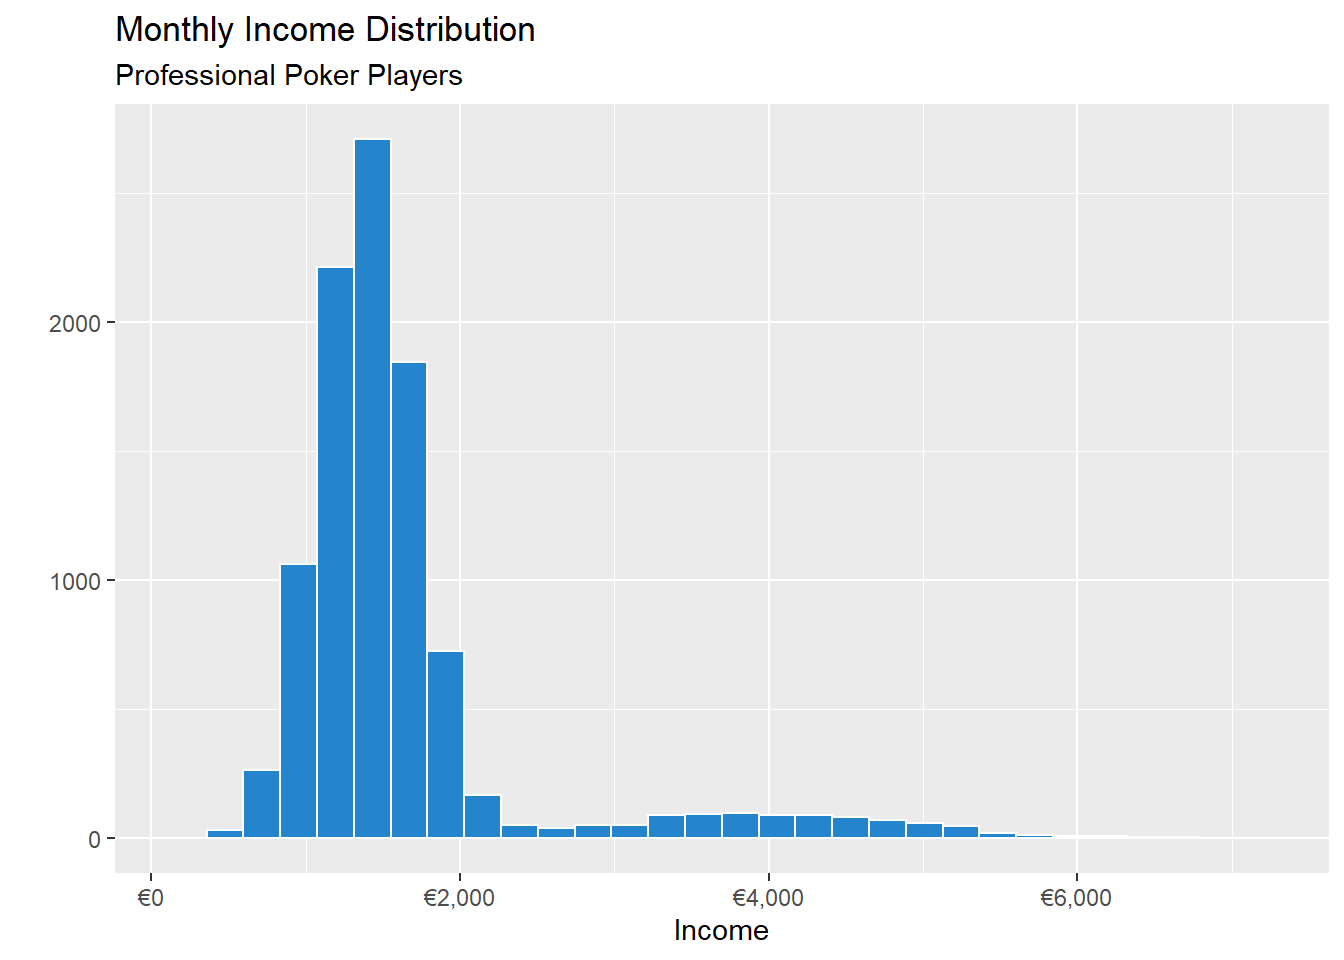
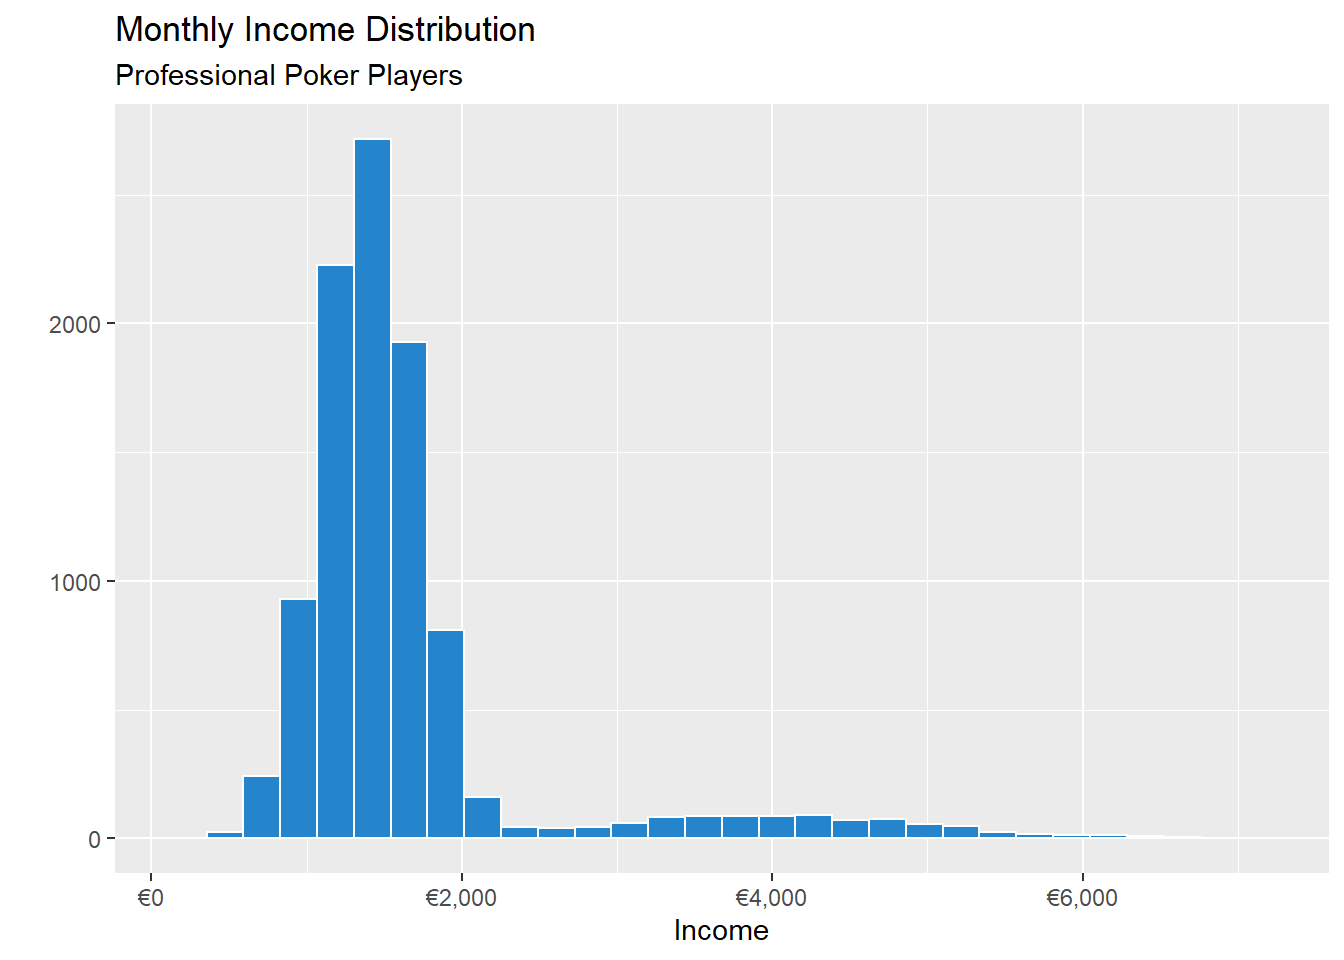
Decision making in uncertainty - Problem Description

diff --git a/content/post/2021-03-18-decision-making-with-uncertainty/index.en.html b/content/post/2021-03-18-decision-making-with-uncertainty/index.en.html
@@ -70,13 +70,15 @@ draft: true
 </div>
 <div id="the-problem" class="section level1">
 <h1>The problem</h1>
-<p>Let us imagine that you would like to choose a career. You are not really sure what you would like to choose because you don’t have a particular career for which you have a strong calling, however there are some that seem decent to you:</p>
-<ul>
-<li>The first option would be doctor. You have seen a lot of medical procedurals and it looks great and exciting, however it would be even better if you can set up your own practice and be the master of your own destiny. Also it would be better paid</li>
-<li>The second option would be to work in IT. It still seems like a great job because you can have a lot of puzzles with which to play and if you mess something up you don’t endanger someone’s life.</li>
-<li>The third option is to disregard all safe plans and go for something that will let you retire early. After all, you have seem many people win big at poker of blackjack and they are far from you cognitive prowess, therefore it might be riskier, however, if anyone has a chance of doing it, it’s you.</li>
-</ul>
-<p>However, all these options seem good and you can’t really choose out of any of them. So, how do you decide with which career you would end up better at retirement? For the sake of this example and to make it easy to understand and reproduce, we will only take into account the amount of money you will earn over your career, however using the same principles you can calculate as many variables as you like.</p>
+<p>In the next section I would like to explain show in brief what would be my thought process if I were to choose a career once more and assuming that I have the knowledge I have now.</p>
+<p>First of all I would need to know what do I expect from a career, money, fame, free time, all of those? There can be multiple variables analysed here, however for the sake of simplicity I will keep it short and analyse just one. So, in this analysis the most important factor in choosing a career is how much income can this career generate during a person working life.</p>
+<p>Now, what careers are on the short list?</p>
+<ol style="list-style-type: decimal">
+<li>The first option would be doctor. This is a good option in my opinion as it is supposed to be well paid, and one can find work almost everywhere. Wherever there are people, there are sick people and a doctor will always be in demand. A medical career offers a lot of variety in both specialities and type of practice which is always good to have.</li>
+<li>The second career option would be one in IT. This is also rumoured to be well paid and besides that it can give one a lot of puzzles with which to play. I like challenges and spending time figuring out puzzles so this seems a good choice for me. As a bonus, any mistakes made as a programmer can be easily patched and fixed, and most mistakes made by programmers do not endanger anyone’s life, as opposed to a doctor’s mistake.</li>
+<li>The third option is one that is highly appealing because it can generate a lot of income with minimal effort. This is on the surface and it remains to be seen when we analyse the data. The career is poker player. I like the idea to create my own schedule and work when I want from where I want. It remains to be seen if this is such an appealing option as it seems at first.</li>
+</ol>
+<p>How do we choose between these options?</p>
 </div>
 <div id="the-method" class="section level1">
 <h1>The method</h1>
@@ -144,7 +146,7 @@ it_sal_dist &lt;- c(it_sal_low, it_sal_high)
 
 # We want to make sure the mean of our distribution if not far off from the actual distribution
 mean(it_sal_dist)</code></pre>
-<pre><code>#&gt; [1] 112381.4</code></pre>
+<pre><code>#&gt; [1] 112526.1</code></pre>
 <p>We can see the average salary of our distribution is quite close to the one from the website, so we can say that our distribution closely resembles the sampled population from the site. Salary distribution looks like below:</p>
 <pre class="r"><code>it_sal_dist %&gt;% 
   histogram() +
@@ -231,8 +233,8 @@ poker_players &lt;- c(avg_player, elt_player)</code></pre>
 <p>This distribution seems legit for a power law distribution. And now, for the final touch, we will need to add the 10% chance to become a professional player. We will do this by using the list we have created earlier. For this we will create a binomial distribution with a 10% probability and a size 1. Basically we can create a random string of values, either 1 or 0 and about 10% are one. Let’s see it in practice.</p>
 <pre class="r"><code>success_prob &lt;- rbinom(n = 10000, size = 1, prob = 0.1)
 print(sum(success_prob) / 10000)</code></pre>
-<pre><code>#&gt; [1] 0.1007</code></pre>
-<p>Perfect, 10.07% is exactly what we would expect.</p>
+<pre><code>#&gt; [1] 0.0998</code></pre>
+<p>Perfect, 9.98% is exactly what we would expect.</p>
 <p>Now all we need to do is multiply the two lists. When a value in the second list is 0 it will transform the earnings to 0, so we did not make it as a professional poker player. When it is 1 the result will not be affected.</p>
 <pre class="r"><code>poker_players_final &lt;- poker_players * success_prob</code></pre>
 <p>Now that we painfully and to the best of our knowledge created the populations, let’s proceed in analysing the data.</p>
